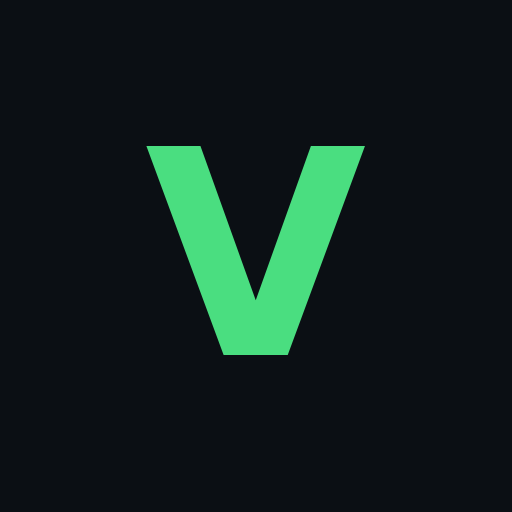
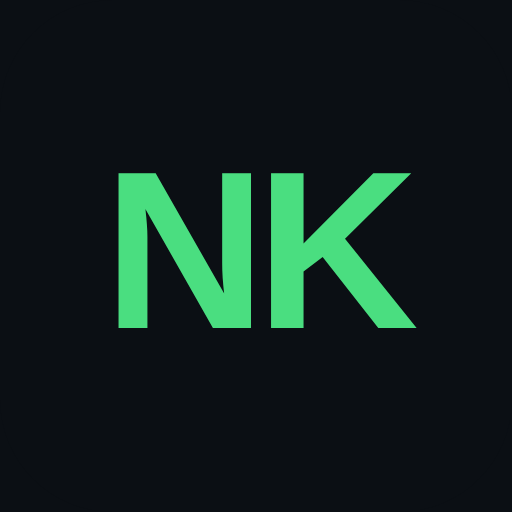
Update 2026-10-31 00:29

Changed region(s): [[0.2188, 0.2812, 0.5938, 0.7188], [0.5312, 0.2812, 0.8125, 0.6562]]

diff --git a/index.html b/index.html
@@ -1,11 +1,11 @@
 <!doctype html><html lang="de"><head><meta charset="utf-8">
 <meta name="viewport" content="width=device-width,initial-scale=1,viewport-fit=cover">
 <meta name="apple-mobile-web-app-capable" content="yes"><meta name="mobile-web-app-capable" content="yes">
-<meta name="apple-mobile-web-app-status-bar-style" content="black-translucent"><meta name="apple-mobile-web-app-title" content="VERA">
+<meta name="apple-mobile-web-app-status-bar-style" content="black-translucent"><meta name="apple-mobile-web-app-title" content="NK Bot">
 <meta name="theme-color" content="#0b0f14" media="(prefers-color-scheme: dark)"><meta name="theme-color" content="#f4f6f9" media="(prefers-color-scheme: light)">
 <meta name="color-scheme" content="dark light"><meta name="format-detection" content="telephone=no">
 <link rel="manifest" href="manifest.webmanifest"><link rel="apple-touch-icon" href="icon-180.png"><link rel="icon" href="icon.svg" type="image/svg+xml">
-<title>VERA AI – Paper</title>
+<title>NK Bot – Paper</title>
 <style>
 :root{--bg:#0b0f14;--card:#141b24;--card2:#1a2330;--tx:#e8eef4;--mu:#8b98a5;--ln:#222c38;--gr:#4ade80;--rd:#f87171;--yl:#fbbf24;--bl:#60a5fa;--nav:rgba(13,18,25,.92)}
 @media (prefers-color-scheme:light){:root{--bg:#f4f6f9;--card:#fff;--card2:#eef2f6;--tx:#111827;--mu:#5b6675;--ln:#e3e8ee;--gr:#16a34a;--rd:#dc2626;--yl:#b45309;--bl:#2563eb;--nav:rgba(255,255,255,.94)}}
@@ -53,7 +53,7 @@ nav a span{font-size:20px;line-height:1}nav a.on{color:var(--gr);font-weight:600
 .det{margin-top:8px;font-size:13px;color:var(--mu);line-height:1.6}.hint{font-size:12px;color:var(--mu);margin-top:6px}
 .sk{height:120px;border-radius:16px;background:var(--card);margin:12px 0;opacity:.6}
 </style></head><body>
-<header><h1>VERA</h1><span class="pill p-paper">Übungskonto · keine echten Orders</span></header>
+<header><h1>NK Bot</h1><span class="pill p-paper">Übungskonto · keine echten Orders</span></header>
 <div id="stand">Lade …</div><div id="banner"></div>
 <main id="m"><div class="sk"></div><div class="sk"></div></main>
 <nav id="nav"></nav>

diff --git a/sw.js b/sw.js
@@ -1,5 +1,5 @@
-// VERA Service Worker 2026-10-30.4: network-first, bei Netzfehler letzte gecachte Version (App laedt auch offline mit letzten Daten)
-const C = "vera-2026-10-30.4";
+// NK Bot Service Worker 2026-10-31.1: network-first, bei Netzfehler letzte gecachte Version (App laedt auch offline mit letzten Daten)
+const C = "vera-2026-10-31.1";
 self.addEventListener("install", e => { self.skipWaiting(); e.waitUntil(caches.open(C).then(c => c.addAll(["./", "index.html", "manifest.webmanifest", "icon-180.png"])).catch(() => {})); });
 self.addEventListener("activate", e => e.waitUntil(caches.keys().then(ks => Promise.all(ks.filter(k => k !== C).map(k => caches.delete(k)))).then(() => self.clients.claim())));
 self.addEventListener("fetch", e => {
